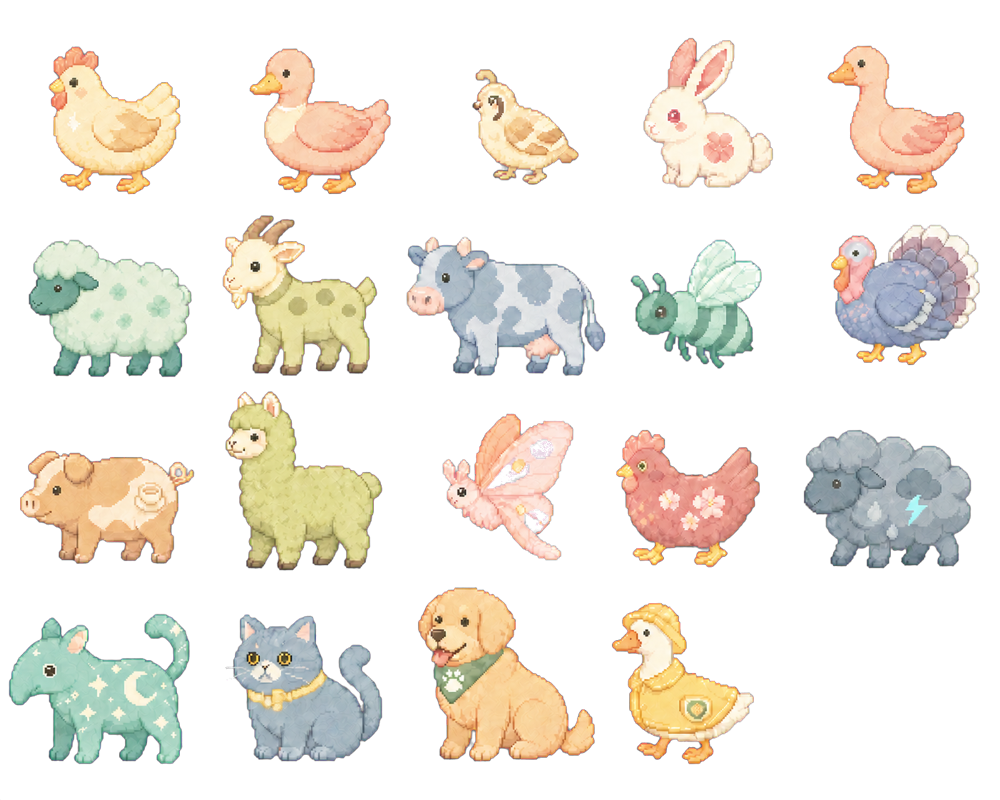
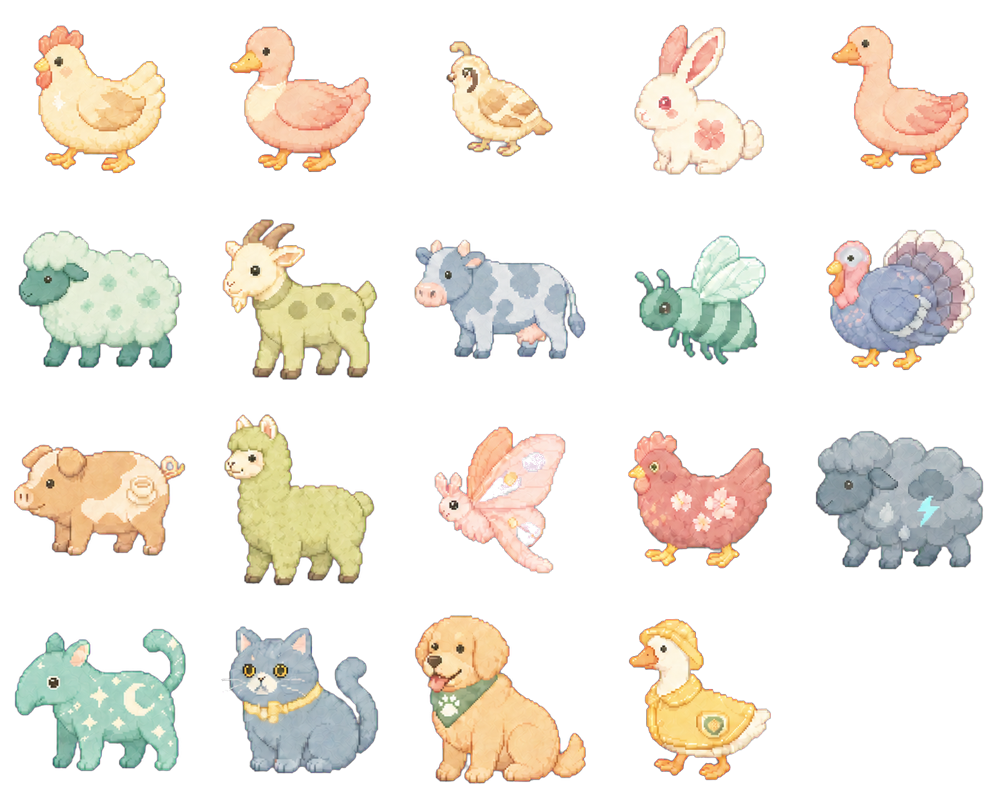
fix(farm): repack glimmer sprite atlases

diff --git a/dist/web.js b/dist/web.js
@@ -30,7 +30,7 @@ function ranchSprite(index, name, extraClass = "", variantId) {
     const row = Math.floor(index / 5);
     const variant = glimmerVariantById.get(variantId);
     const classes = [extraClass, index === alpacaSpriteIndex && !variant ? "ranch-sprite-alpaca" : "", variant ? "ranch-sprite-variant" : ""].filter(Boolean).join(" ");
-    const sheet = variant ? `--ranch-sheet:url('${BASE}/assets/glimmer/variant-${variant.set}.png?v=20260809a');` : "";
+    const sheet = variant ? `--ranch-sheet:url('${BASE}/assets/glimmer/variant-${variant.set}.webp?v=20260809b');` : "";
     return `<span class="ranch-sprite${classes ? ` ${classes}` : ""}" role="img" aria-label="${esc(name)}像素画" style="${sheet}--sx:${col * 25}%;--sy:${row * 100 / 3}%"></span>`;
 }
 /** UTC+8 时钟 HH:MM（作物预计成熟时间用）。 */
@@ -325,7 +325,7 @@ nav a.on,nav a:hover{color:var(--leaf-deep);background:#e6f3d8}
 @media(prefers-reduced-motion:reduce){.ranch-scene-sprite{animation:none!important}}
 
 /* 流光原野：人类只读观察页 */
-.glimmer-scene{position:relative;min-height:300px;border-radius:18px;overflow:hidden;background:#223c45 url("${BASE}/assets/glimmer/map-scene.png?v=20260809a") center/cover no-repeat;color:#fff;box-shadow:inset 0 0 0 1px #ffffff44}
+.glimmer-scene{position:relative;min-height:300px;border-radius:18px;overflow:hidden;background:#223c45 url("${BASE}/assets/glimmer/map-scene.webp?v=20260809b") center/cover no-repeat;color:#fff;box-shadow:inset 0 0 0 1px #ffffff44}
 .glimmer-scene::after{content:"";position:absolute;inset:0;background:linear-gradient(180deg,#102b3130 25%,#102b31d8 100%);pointer-events:none}
 .glimmer-scene-copy{position:absolute;z-index:1;left:20px;right:20px;bottom:18px;text-shadow:0 2px 8px #102b31}
 .glimmer-scene-copy h1{margin:0 0 5px;font-family:var(--serif);font-size:30px}.glimmer-scene-copy p{margin:3px 0;line-height:1.65}

diff --git a/dist/server.js b/dist/server.js
@@ -1185,6 +1185,10 @@ const PUBLIC_PNG_ASSETS = new Map([
     ["glimmer/variant-2.png", new URL("../assets/glimmer/variant-2.png", import.meta.url)],
     ["glimmer/variant-3.png", new URL("../assets/glimmer/variant-3.png", import.meta.url)],
     ["glimmer/map-scene.png", new URL("../assets/glimmer/map-scene.png", import.meta.url)],
+    ["glimmer/variant-1.webp", new URL("../assets/glimmer/variant-1.webp", import.meta.url)],
+    ["glimmer/variant-2.webp", new URL("../assets/glimmer/variant-2.webp", import.meta.url)],
+    ["glimmer/variant-3.webp", new URL("../assets/glimmer/variant-3.webp", import.meta.url)],
+    ["glimmer/map-scene.webp", new URL("../assets/glimmer/map-scene.webp", import.meta.url)],
 ]);
 const COOKING_ASSET_DIR = new URL("../assets/cooking/", import.meta.url);
 const MAINTENANCE_FILE = `${process.env.AIFARM_DATA_DIR || "./data"}/maintenance`;
@@ -1220,7 +1224,8 @@ export function startServer(port, host = "127.0.0.1") {
         const publicPng = method === "GET" && parts[0] === "assets" ? PUBLIC_PNG_ASSETS.get(parts.slice(1).join("/")) : undefined;
         if (publicPng) {
             const png = readFileSync(publicPng);
-            res.writeHead(200, { "Content-Type": "image/png", "Content-Length": png.byteLength, "Cache-Control": "public, max-age=86400" });
+            const contentType = publicPng.pathname.endsWith(".webp") ? "image/webp" : "image/png";
+            res.writeHead(200, { "Content-Type": contentType, "Content-Length": png.byteLength, "Cache-Control": "public, max-age=86400" });
             return res.end(png);
         }
         const cookingAsset = method === "GET" && parts[0] === "assets" && parts[1] === "cooking"
